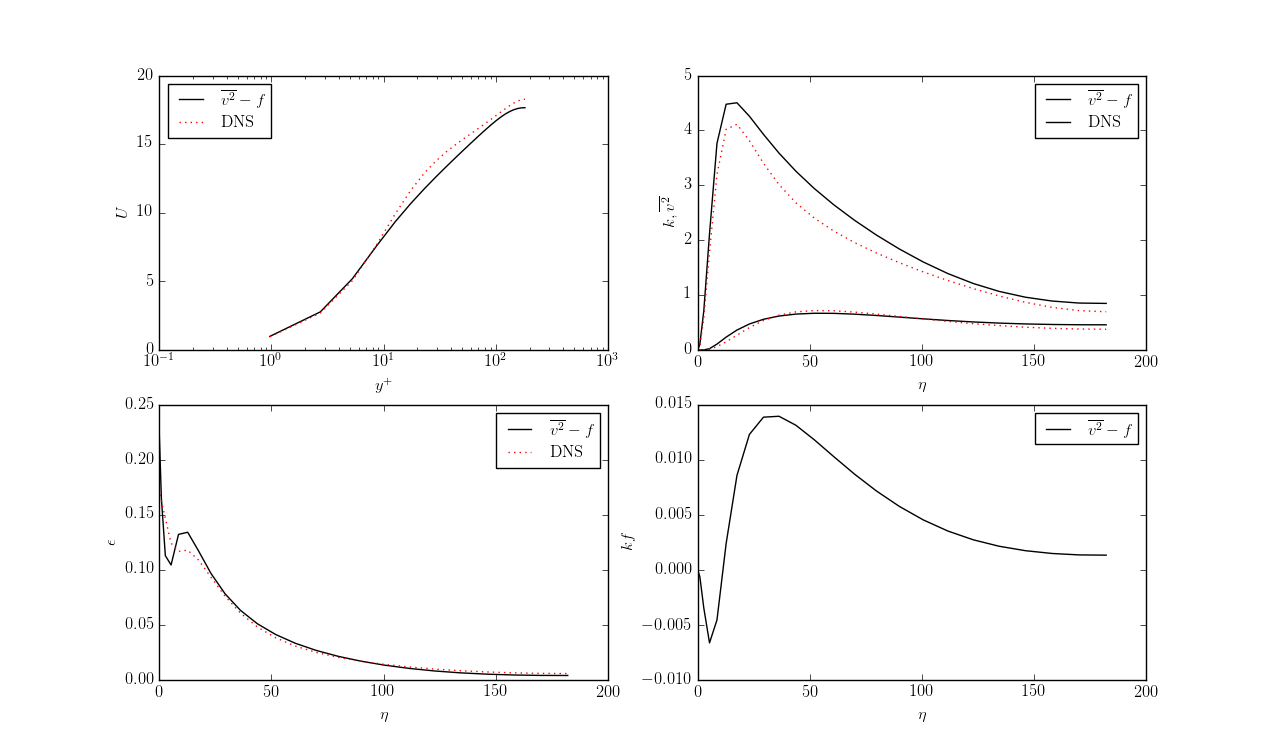
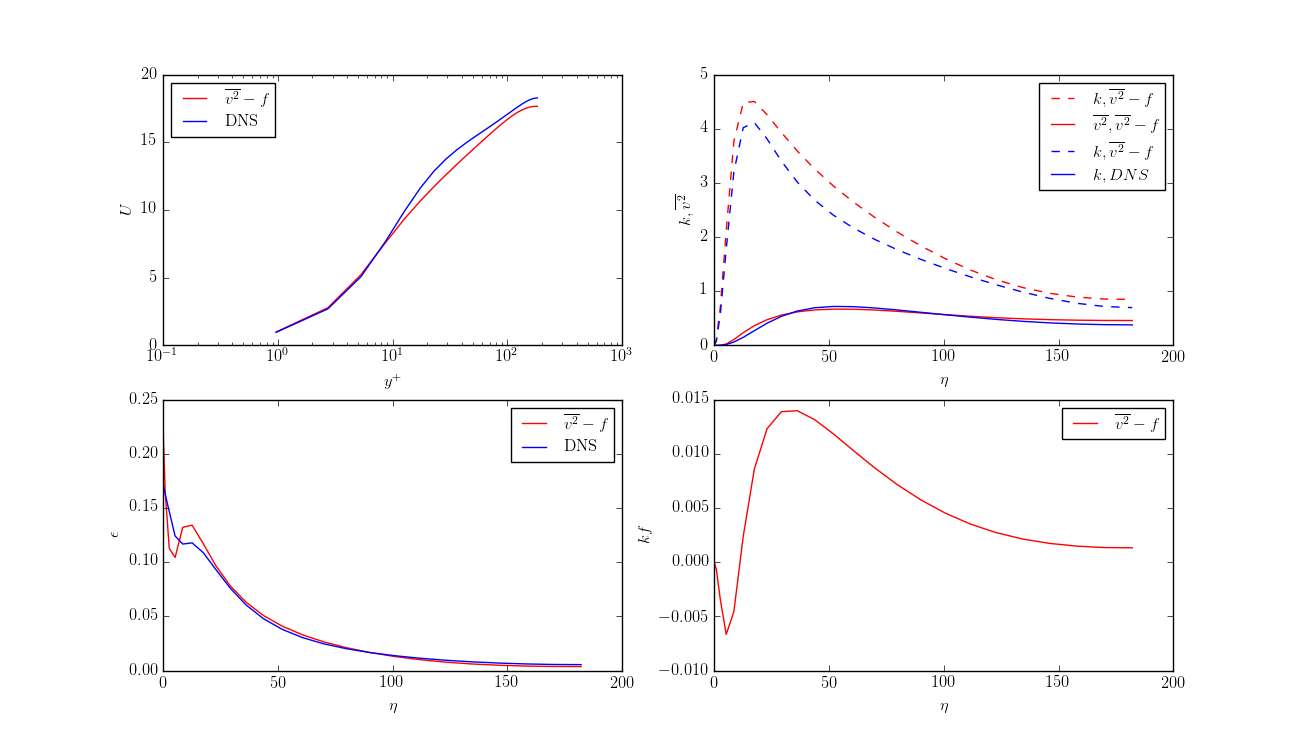
tims writeup edits

diff --git a/doc/turbulence/v2channel.tex b/doc/turbulence/v2channel.tex
@@ -116,19 +116,19 @@ C_2\frac{\nu_T}{k}\left(\pderiv{U}{y}\right)^2 -
 The constants are defined as follows: 
 \begin{multicols}{2}
 \begin{enumerate}
-	\item $C_\mu = 0.09$
+	\item $C_\mu = 0.19$
         \item $C_k = 1.0$
-	\item $\sigma_\ep = 1.3$
-	\item $C_2 = 0.4$	
+	\item $\sigma_\ep = 1.6$
+	\item $C_2 = 0.3$	
 \end{enumerate}
 \columnbreak 
 
 \begin{itemize}
 	\item[5.] $C_1 = 0.3$
-	\item[6.] $C_{\ep 1} = 1.4[1 + 0.045 \sqrt{k/\overline{v^2}}]$
-	\item[7.] $C_{\ep 2} = 1.92$  
-	\item[8.] $C_\eta = 16$
-	\item[9.] $C_L = 0.2$
+	\item[6.] $C_{\ep 1} = 1.55$
+	\item[7.] $C_{\ep 2} = 1.9$  
+	\item[8.] $C_\eta = 70$
+	\item[9.] $C_L = 0.3$
 \end{itemize}
 \end{multicols}
 
@@ -220,9 +220,9 @@ To be more specific, if $F(\xi) = 0$ is the system of equations given by
 \eqref{eq:ssv2f1_nondim}-\eqref{eq:ssv2f5_nondim}, where, $\xi \equiv (U, k,
 \ep, \overline{v^2}, f)^T$, then we will start with an initial guess $\xi_0$ and
 solve $\partial \xi / \partial t = F(\xi)$, until $\partial \xi / \partial t
-\approx 0$. Generally, this works best if you start with a small
-time step and then gradually increase the time step until it is very large at
-which point you're essentially trying to solve the steady problem from a
+\approx 0$. Generally, this works best by starting with a small
+time step and then gradually increasing the time step until it is very large. At
+this point we are essentially solving the steady problem from a
 different initial guess. Using a backward Euler scheme implies we are solving 
 
 \begin{equation}\label{xi_eqn_time_discrete}
@@ -262,39 +262,44 @@ F_{\Delta \eta}(\xi^{n+1}) \approx 0 .
 
 
 \section{Non-Uniform Grid}
-In order to reduce the computational requirements, a non-uniform spacing of points was used.  This allows a fine resolution near the wall, where the resolution must be on the order of the wall-units, and a coarse resolution in the center of the channel.  A set of uniform points, $\chi$, was defined such that $\chi=0$ corresponds to the channel wall and $\chi=1$ corresponds to the centerline.  This set of uniform points was remapped to the nonuniform mesh, $\tilde{y} = y/\delta$, using the mapping function used by Lee and Moser \cite{Lee},
+In order to reduce the computational requirements, a non-uniform spacing of points was used.  This allows a fine resolution near the wall, where the resolution must be on the order of the wall-units, and a coarse resolution in the center of the channel.  A set of uniform points, $\chi$, was defined such that $\chi=0$ corresponds to the channel wall and $\chi=1$ corresponds to the centerline.  This set of uniform points was remapped to the nonuniform mesh, $\eta = y/\delta$, using the mapping function used by Lee and Moser \cite{Lee},
 \begin{equation} \label{eq:mapping}
- \frac{y}{\delta} = \frac{\sin(\eta (\chi-1) \pi/2)}{\sin(\eta \pi/2)}+1, \quad 0 \le \chi \le 1
+ \eta = \frac{y}{\delta} = \frac{\sin(\lambda (\chi-1) \pi/2)}{\sin(\lambda \pi/2)}+1, \quad 0 \le \chi \le 1
 \end{equation}
-where $\eta$ is an adjustable parameter that controls the resolution near the wall. When $\eta$ is equal to 1, the wall-spacing is finest.  When $\eta$ is very small, the mesh is approximately uniform.  For our simulation, we use $\eta = 0.97$.  Using a value other than $\eta = \pm 1$ prevents the derivative of $y$ with respect to $\chi$ from going to zero at the walls.
+where $\lambda$ is an adjustable parameter that controls the resolution near the
+wall. When $\lambda$ is equal to 1, the wall-spacing is finest.  When $\lambda$
+is very small, the mesh is approximately uniform.  For our simulation, we use
+$\lambda = 0.97$.  Using a value other than $\lambda = \pm 1$ prevents the
+derivative of $y$ with respect to $\chi$ from going to zero at the walls.
 
-The formula in Eq. \ref{eq:mapping} can be simplified by defining a few constants based on $\eta$:
+The formula in Eq. \ref{eq:mapping} can be simplified by defining a few
+constants based on $\lambda$:
 \begin{equation}
- \frac{y}{\delta} = \frac{\sin\big((\chi-1)a\big)}{b}+1, \quad 0 \le \chi \le 1
+ \eta = \frac{y}{\delta} = \frac{\sin\big((\chi-1)a\big)}{b}+1, \quad 0 \le \chi \le 1
 \end{equation}
-where $a = \eta \pi/2$ and $b = \sin (\eta \pi/2)$.
+where $a = \lambda \pi/2$ and $b = \sin (\lambda \pi/2)$.
 
 The inverse mapping and its derivatives can be written as:
 \begin{align}
   \chi &= \frac{\sin^{-1}(by-b)}{a} + 1 \\
-  \frac{\mathrm{d}\chi}{\mathrm{d}\tilde{y}} &= \frac{b}{a \sqrt{1-b^2(y-1)^2}} \label{eq:chi-y-1} \\
-  \frac{\mathrm{d}^2\chi}{\mathrm{d}\tilde{y}^2} &= \frac{b^2(by-b)}{a\big(1-(b-by)^2\big)^{3/2}} \label{eq:chi-y-2}
+  \frac{\mathrm{d}\chi}{\mathrm{d}\eta} &= \frac{b}{a \sqrt{1-b^2(y-1)^2}} \label{eq:chi-y-1} \\
+  \frac{\mathrm{d}^2\chi}{\mathrm{d}\eta^2} &= \frac{b^2(by-b)}{a\big(1-(b-by)^2\big)^{3/2}} \label{eq:chi-y-2}
 \end{align}
-where $a$ is a constant equal to the denominator in Eq. \ref{eq:mapping}.  Using the chain rule, the derivatives of a variable $\phi$ on the nonuniform grid, $\tilde{y}$ can be computed using derivatives on the uniform grid, $\chi$ as follows:
+where $a$ is a constant equal to the denominator in Eq. \ref{eq:mapping}.  Using the chain rule, the derivatives of a variable $\phi$ on the nonuniform grid, $\eta$ can be computed using derivatives on the uniform grid, $\chi$ as follows:
 \begin{align}
- \pderiv{\phi}{\tilde{y}} &= \frac{\mathrm{d}\chi}{\mathrm{d}\tilde{y}} \pderiv{\phi}{\chi} \label{eq:phi-y-1} \\
- \pderiv[2]{\phi}{\tilde{y}} &= \frac{\mathrm{d}^2\chi}{\mathrm{d}\tilde{y}^2} \pderiv{\phi}{\chi} + \Big(\frac{\mathrm{d}\chi}{\mathrm{d}\tilde{y}} \Big)^2 \pderiv[2]{\phi}{\chi}  \label{eq:phi-y-2} 
+ \pderiv{\phi}{\eta} &= \frac{\mathrm{d}\chi}{\mathrm{d}\eta} \pderiv{\phi}{\chi} \label{eq:phi-y-1} \\
+ \pderiv[2]{\phi}{\eta} &= \frac{\mathrm{d}^2\chi}{\mathrm{d}\eta^2} \pderiv{\phi}{\chi} + \Big(\frac{\mathrm{d}\chi}{\mathrm{d}\eta} \Big)^2 \pderiv[2]{\phi}{\chi}  \label{eq:phi-y-2} 
 \end{align}
 In order to acheive a near-wall resolution on the order of $\Delta y ~ \delta_v$, the distance between the first two grid points must be $\delta_v$.  This leads to the equation:
 \begin{equation}
  \Delta \chi = \frac{\sin^{-1}(b\delta_v -b)}{a}+1
 \end{equation}
 
-If we use $\delta = 1$ as our channel width, then $y = \tilde{y}$ and $\delta_v = 1/\mathrm{Re}_{\tau}$.  This leads to an equation for the required number of grid points, $n$, as:
+If we use $\delta = 1$ as our channel width, then $y = \eta$ and $\delta_v = 1/\mathrm{Re}_{\tau}$.  This leads to an equation for the required number of grid points, $n$, as:
 \begin{equation}
  n = \frac{a}{\sin^{-1}(b/\mathrm{Re}_{\tau}-b)+a}
 \end{equation}
-Using a value of $\eta = .97$ for the mapping parameter, the number of points required for $\mathrm{Re}_{\tau}=5200$ and $\mathrm{Re}_{\tau}=10000$ is 390 and 735 respectively. This is significantly lower than the uniform grid sizes of 5,200 and 10,000.
+Using a value of $\lambda = .97$ for the mapping parameter, the number of points required for $\mathrm{Re}_{\tau}=5200$ and $\mathrm{Re}_{\tau}=10000$ is 390 and 735 respectively. This is significantly lower than the uniform grid sizes of 5,200 and 10,000.
 
 
 %%%%%%%%%%%%%%%%%%%%%%%%%%%%%%%%%%%%%%%%%%%%%%%%%
@@ -334,11 +339,11 @@ analytic solution.}
 Our next test was with $Re_\tau = 180$, which provided a more involved
 verification of the model. Here we referred to $\overline{v^2} - f$ and DNS
 solutions plotted in \cite{durbin180}. Plots from this paper are shown in Fig.
-\ref{fig:durbin180} and we show steady solutions to each of the terms in
+\ref{fig:durbin180} and we show steady solutions to each of the terms
 at this Reynolds number in Fig. \ref{fig:results_180}. Our solution looks almost
 identical to Durbin's $\overline{v^2}-f$ results, and even disagrees with the DNS
 data in the same regions of the channel. The model results agree with the DNS
-data quite well, however, showing the strength of the $\overline{v^2}-f$ model
+data quite well, showing the strength of the $\overline{v^2}-f$ model
 in capturing the near wall behavior in channel flow. Our verified results at
 this stage gave us confidence that the model would behave well at high Reynolds
 numbers.
@@ -359,10 +364,10 @@ behave while verifying our model.}
  \centering
  \includegraphics[width=\textwidth]{results_180}
  \caption{Steady state solution to the $\overline{v^2}-f$ model, Eqns.
-(\ref{eq:ssv2f1_nondim})-(\ref{eq:ssv2f5_nondim}), at $Re_\tau=180$. The solid
-black line shows results from our model, and the red dotted line shows
-interpolated DNS results from \cite{Lee}. Note we show no initial data for $kf$
-since $f$ is initialized at zero.}
+(\ref{eq:ssv2f1_nondim})-(\ref{eq:ssv2f5_nondim}), at $Re_\tau=180$. The red
+lines show results from our model while the blue lines show our
+initial conditions which are interpolated DNS results from \cite{Lee}. Note we
+show no initial data for $kf$ since $f$ is initialized at zero.}
  \label{fig:results_180}
 \end{figure}
 
@@ -409,7 +414,9 @@ The agreement were not as good for $k$ or $\overline{v^2}$.  This matches what w
 
 Similarly, a comparison of the RANS results for $\varepsilon$ with the DNS data shows slight difference, especially near the wall. Nevertheless, the overall behavior is still close to the DNS data.
 
-The RANS results for the $Re_{\tau} = 5200$ case were also compared to the log-law.  The ``universal values'' given by Pope \cite{pope} were not as good as the values derived from DNS by Lee and Moser \cite{Lee}.  These values are $\kappa = 0.384$ and $B = 4.27$.  A comparison of the RANS results with the theoretical log-law is shown in Fig. \ref{fig:loglaw}. This agreement with the values put forth by Lee and Moser is logical, since the RANS $U$ profile closely matches the DNS results.
+The RANS results for the $Re_{\tau} = 5200$ case were also compared to the
+log-law.  The ``universal values'' given by Pope \cite{pope} did not fit as well
+as the values derived from DNS by Lee and Moser \cite{Lee}.  These values are $\kappa = 0.384$ and $B = 4.27$.  A comparison of the RANS results with the theoretical log-law is shown in Fig. \ref{fig:loglaw}. This agreement with the values put forth by Lee and Moser is logical, since the RANS $U$ profile closely matches the DNS results.
 
 \begin{figure}
  \centering
